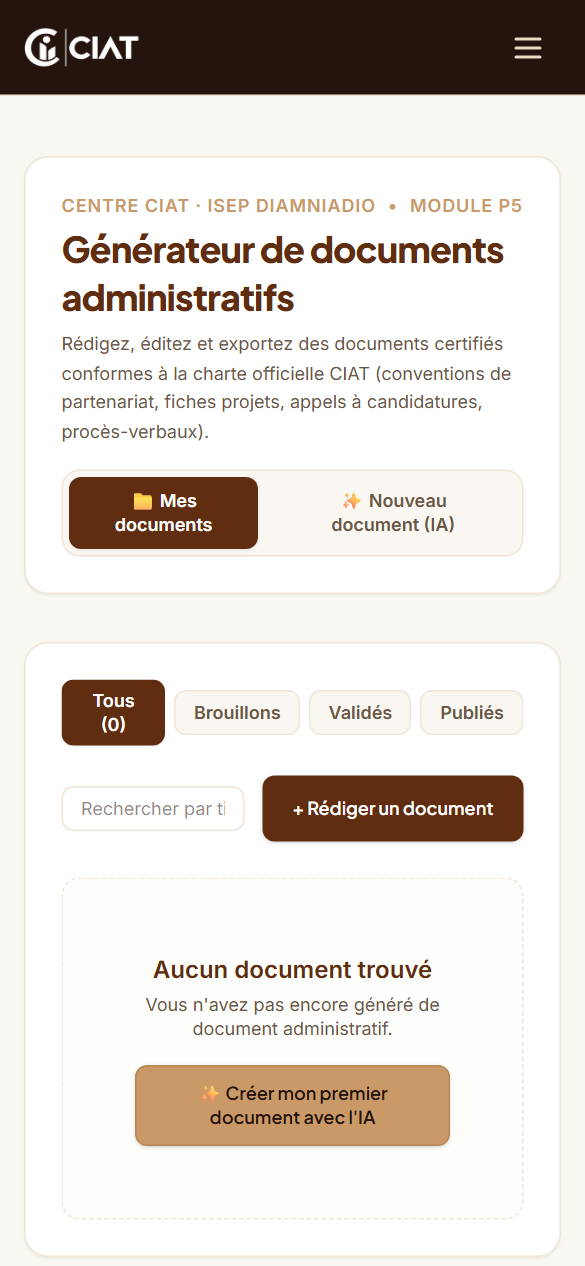
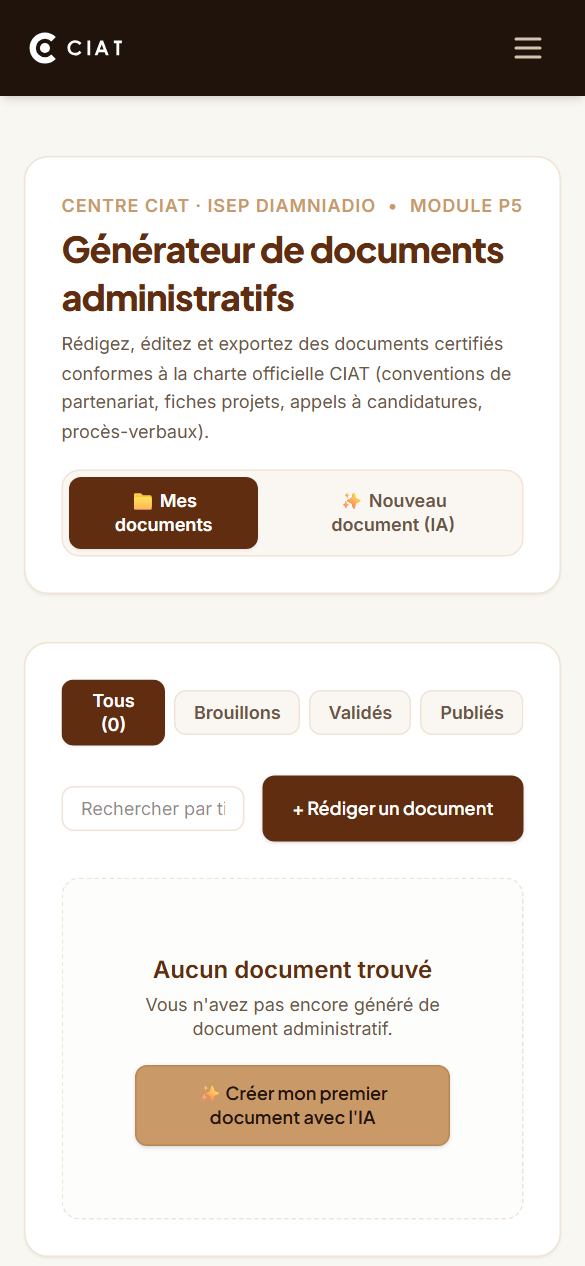
feat(ux): fond blanc pur formulaire depot, sidebar unifiee #1F130B et bouton quitter rouge

Changed region(s): [[0.0308, 0.0, 0.9846, 0.0924]]

diff --git a/frontend/src/components/incubateur/AppSidebarLayout.tsx b/frontend/src/components/incubateur/AppSidebarLayout.tsx
@@ -79,14 +79,6 @@ function IconLogout({ className = "h-5 w-5" }: { className?: string }) {
   );
 }
 
-function IconPortal({ className = "h-5 w-5" }: { className?: string }) {
-  return (
-    <svg className={className} fill="none" viewBox="0 0 24 24" stroke="currentColor" strokeWidth={1.75}>
-      <path strokeLinecap="round" strokeLinejoin="round" d="M10 19l-7-7m0 0l7-7m-7 7h18" />
-    </svg>
-  );
-}
-
 export function AppSidebarLayout({ children }: { children: ReactNode }) {
   const { user, logout } = useAuth();
   const pathname = usePathname();
@@ -94,7 +86,7 @@ export function AppSidebarLayout({ children }: { children: ReactNode }) {
 
   const isCoordonnateur = user?.role === "coordonnateur" || user?.role === "administrateur";
 
-  /* Liens spécifiques selon le rôle */
+  /* Liens spécifiques selon le rôle : Le porteur est 100% centré sur son parcours de candidature */
   const porteurLinks: NavItem[] = [
     { href: "/incubateur", label: "Dépôt de candidature", exact: true, icon: IconDocument },
     { href: "/incubateur/projets", label: "Suivi de mes projets", icon: IconFolder },
@@ -114,30 +106,27 @@ export function AppSidebarLayout({ children }: { children: ReactNode }) {
 
   return (
     <div className="min-h-screen bg-[#FAF7F2] lg:flex">
-      {/* 1. SIDEBAR DESKTOP FIXE */}
-      <aside className="hidden lg:flex lg:w-64 lg:flex-col lg:fixed lg:inset-y-0 lg:z-30 bg-[#24140D] text-white border-r border-[#3D2315] shadow-xl">
-        {/* En-tête Sidebar : Logo CIAT officiel blanc */}
-        <div className="flex h-20 items-center justify-between px-5 border-b border-[#3D2315] bg-[#1a0f0a]">
-          <Link href="/incubateur" className="flex items-center gap-3">
+      {/* 1. SIDEBAR DESKTOP FIXE — Fond unifié et fluide (#1F130B), aucun découpage artificiel */}
+      <aside className="hidden lg:flex lg:w-64 lg:flex-col lg:fixed lg:inset-y-0 lg:z-30 bg-[#1F130B] text-white shadow-xl">
+        {/* En-tête Sidebar : Logo CIAT officiel vectoriel */}
+        <div className="flex h-20 items-center justify-between px-6 pt-2">
+          <Link href="/incubateur" className="flex items-center">
             <Image
-              src="/images/brand/logo_blanc.png"
-              alt="Logo CIAT"
-              width={120}
-              height={43}
+              src="/images/brand/ciat_blanc_horizontal.svg"
+              alt="CIAT - Centre d'Innovation, d'Application et de Transfert"
+              width={140}
+              height={46}
               priority
-              className="h-8 w-auto object-contain"
+              className="h-9 w-auto object-contain"
             />
           </Link>
-          <span className="rounded-full bg-[#C99A68]/20 px-2 py-0.5 text-[10px] font-bold tracking-wider text-[#C99A68] uppercase">
-            {isCoordonnateur ? "Coordo" : "Porteur"}
-          </span>
         </div>
 
-        {/* Navigation principale */}
-        <div className="flex-1 overflow-y-auto px-3 py-6 space-y-6">
+        {/* Navigation principale fluide */}
+        <div className="flex-1 overflow-y-auto px-4 py-4 space-y-6">
           <div>
             <span className="px-3 text-[11px] font-bold tracking-wider text-[#A08F80] uppercase">
-              {isCoordonnateur ? "Coordination" : "Espace Candidat"}
+              {isCoordonnateur ? "Coordination Incubateur" : "Espace Candidat"}
             </span>
             <nav className="mt-3 space-y-1.5" aria-label="Menu applicatif">
               {navLinks.map((item) => {
@@ -149,8 +138,8 @@ export function AppSidebarLayout({ children }: { children: ReactNode }) {
                     href={item.href}
                     className={`flex items-center gap-3 rounded-lg px-3.5 py-2.5 text-sm font-semibold transition-all ${
                       active
-                        ? "bg-[#612D10] text-white shadow-xs border-l-4 border-[#C99A68]"
-                        : "text-[#EBD9C0] hover:bg-white/5 hover:text-white"
+                        ? "bg-[#612D10] text-white shadow-sm border-l-4 border-[#C99A68]"
+                        : "text-[#D6C4B0] hover:bg-white/5 hover:text-white"
                     }`}
                   >
                     <Icon className={`h-5 w-5 shrink-0 ${active ? "text-[#C99A68]" : "text-[#A08F80]"}`} />
@@ -162,11 +151,11 @@ export function AppSidebarLayout({ children }: { children: ReactNode }) {
           </div>
         </div>
 
-        {/* Pied de Sidebar : Profil utilisateur & Déconnexion */}
-        <div className="border-t border-[#3D2315] p-4 bg-[#1a0f0a] space-y-3">
+        {/* Pied de Sidebar unifié : Profil utilisateur & Vrai Bouton Quitter */}
+        <div className="p-4 space-y-3">
           {user && (
-            <div className="flex items-center gap-3">
-              <span className="flex h-9 w-9 shrink-0 items-center justify-center rounded-full bg-[#C99A68] text-sm font-bold text-[#24140D]">
+            <div className="flex items-center gap-3 px-2">
+              <span className="flex h-9 w-9 shrink-0 items-center justify-center rounded-full bg-[#C99A68] text-sm font-bold text-[#1F130B]">
                 {user.first_name ? user.first_name[0].toUpperCase() : user.email[0].toUpperCase()}
               </span>
               <div className="min-w-0 flex-1">
@@ -180,35 +169,25 @@ export function AppSidebarLayout({ children }: { children: ReactNode }) {
             </div>
           )}
 
-          <div className="flex items-center justify-between pt-1 border-t border-[#3D2315]/60 text-xs">
-            <Link
-              href="/"
-              className="flex items-center gap-1.5 text-[#A08F80] hover:text-white transition-colors"
-              title="Retour au portail public du CIAT"
-            >
-              <IconPortal className="h-4 w-4" />
-              <span>Portail public</span>
-            </Link>
-            <button
-              type="button"
-              onClick={logout}
-              className="flex items-center gap-1 text-[#DC2626] hover:text-[#EF4444] font-medium transition-colors"
-              title="Se déconnecter"
-            >
-              <IconLogout className="h-4 w-4" />
-              <span>Quitter</span>
-            </button>
-          </div>
+          {/* Vrai bouton Quitter avec bordure et survol rouge */}
+          <button
+            type="button"
+            onClick={logout}
+            className="flex w-full items-center justify-center gap-2 rounded-lg border border-white/20 bg-transparent px-3 py-2 text-xs font-semibold text-[#D6C4B0] transition-all duration-200 hover:border-[#DC2626] hover:bg-[#DC2626] hover:text-white"
+          >
+            <IconLogout className="h-4 w-4" />
+            <span>Quitter</span>
+          </button>
         </div>
       </aside>
 
       {/* 2. TOPBAR MOBILE (< 1024px) */}
-      <div className="sticky top-0 z-40 flex h-16 w-full items-center justify-between border-b border-[#EFE4D6] bg-[#24140D] px-4 text-white lg:hidden">
-        <Link href="/incubateur" className="flex items-center gap-2">
+      <div className="sticky top-0 z-40 flex h-16 w-full items-center justify-between bg-[#1F130B] px-4 text-white lg:hidden shadow-md">
+        <Link href="/incubateur" className="flex items-center">
           <Image
-            src="/images/brand/logo_blanc.png"
+            src="/images/brand/ciat_blanc_horizontal.svg"
             alt="Logo CIAT"
-            width={110}
+            width={120}
             height={40}
             priority
             className="h-7 w-auto object-contain"
@@ -217,7 +196,7 @@ export function AppSidebarLayout({ children }: { children: ReactNode }) {
         <button
           type="button"
           onClick={() => setMobileOpen(!mobileOpen)}
-          className="flex min-h-[44px] min-w-[44px] items-center justify-center rounded-lg p-2 text-[#EBD9C0] hover:bg-white/10"
+          className="flex min-h-[44px] min-w-[44px] items-center justify-center rounded-lg p-2 text-[#D6C4B0] hover:bg-white/10"
           aria-label={mobileOpen ? "Fermer le menu" : "Ouvrir le menu"}
         >
           <svg className="h-6 w-6" fill="none" viewBox="0 0 24 24" stroke="currentColor">
@@ -234,10 +213,10 @@ export function AppSidebarLayout({ children }: { children: ReactNode }) {
       {mobileOpen && (
         <div className="fixed inset-0 z-50 flex lg:hidden">
           <div className="fixed inset-0 bg-black/60 backdrop-blur-xs" onClick={() => setMobileOpen(false)} />
-          <div className="relative flex w-4/5 max-w-xs flex-1 flex-col bg-[#24140D] text-white p-5 space-y-6">
-            <div className="flex items-center justify-between border-b border-[#3D2315] pb-4">
+          <div className="relative flex w-4/5 max-w-xs flex-1 flex-col bg-[#1F130B] text-white p-5 space-y-6">
+            <div className="flex items-center justify-between pb-3">
               <span className="text-xs font-bold uppercase tracking-wider text-[#C99A68]">
-                {isCoordonnateur ? "Coordination CIAT" : "Espace Porteur"}
+                {isCoordonnateur ? "Coordination CIAT" : "Espace Candidat"}
               </span>
               <button
                 type="button"
@@ -261,7 +240,7 @@ export function AppSidebarLayout({ children }: { children: ReactNode }) {
                     href={item.href}
                     onClick={() => setMobileOpen(false)}
                     className={`flex min-h-[44px] items-center gap-3 rounded-lg px-4 py-2.5 text-sm font-semibold transition-colors ${
-                      active ? "bg-[#612D10] text-white border-l-4 border-[#C99A68]" : "text-[#EBD9C0] hover:bg-white/5"
+                      active ? "bg-[#612D10] text-white border-l-4 border-[#C99A68]" : "text-[#D6C4B0] hover:bg-white/5"
                     }`}
                   >
                     <Icon className="h-5 w-5 shrink-0 text-[#C99A68]" />
@@ -271,25 +250,17 @@ export function AppSidebarLayout({ children }: { children: ReactNode }) {
               })}
             </nav>
 
-            <div className="border-t border-[#3D2315] pt-4 space-y-3 text-sm">
-              <Link
-                href="/"
-                onClick={() => setMobileOpen(false)}
-                className="flex items-center gap-2 text-[#A08F80] hover:text-white"
-              >
-                <IconPortal className="h-4 w-4" />
-                <span>Retour au portail public</span>
-              </Link>
+            <div className="pt-4">
               <button
                 type="button"
                 onClick={() => {
                   setMobileOpen(false);
                   logout();
                 }}
-                className="flex w-full items-center gap-2 text-[#DC2626] font-semibold"
+                className="flex w-full items-center justify-center gap-2 rounded-lg border border-white/20 bg-transparent px-3 py-2 text-xs font-semibold text-[#D6C4B0] hover:border-[#DC2626] hover:bg-[#DC2626] hover:text-white transition-all"
               >
                 <IconLogout className="h-4 w-4" />
-                <span>Déconnexion</span>
+                <span>Quitter</span>
               </button>
             </div>
           </div>

diff --git a/frontend/src/app/incubateur/page.tsx b/frontend/src/app/incubateur/page.tsx
@@ -158,7 +158,7 @@ function DepotDossier() {
         </div>
       ) : (
         <div className="grid gap-6 lg:grid-cols-[minmax(0,7fr)_minmax(0,3fr)] lg:items-start">
-          <div className="rounded-xl border border-[#EFE4D6] bg-[#FAF7F2] p-4 sm:p-8">
+          <div className="rounded-xl border border-[#EFE4D6] bg-white p-4 shadow-sm sm:p-8">
             {!submitted && (
               <div className="mb-8 border-b border-[#EFE4D6] pb-6">
                 <Stepper current={step} maxReached={dossier ? maxReached : 0} onSelect={goTo} />
